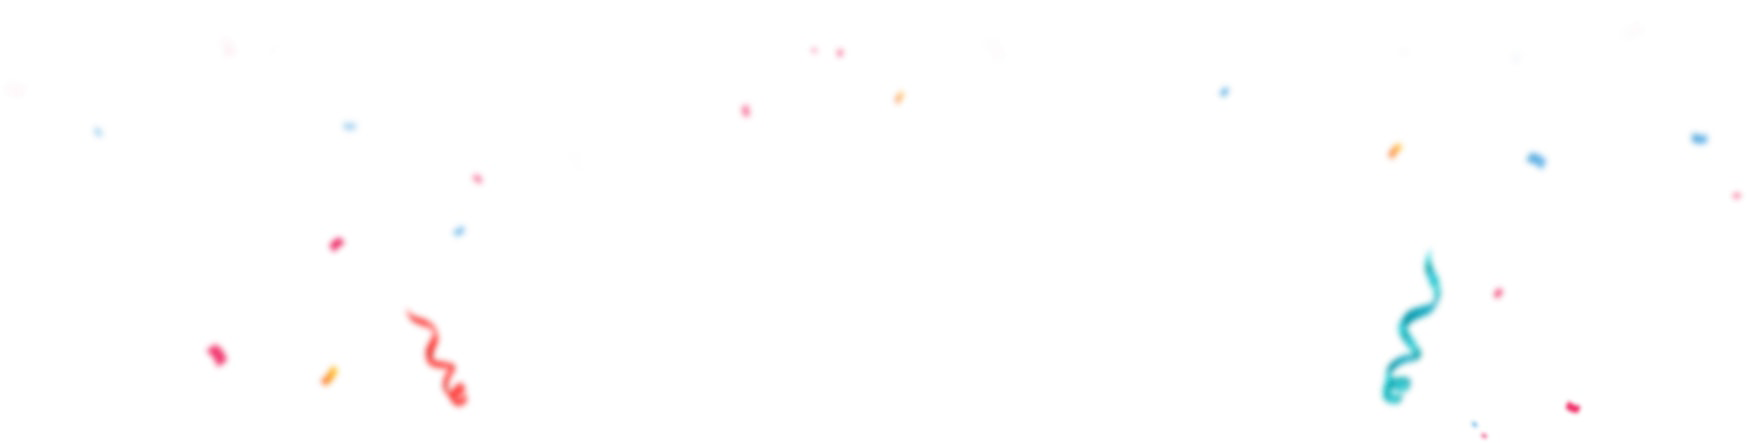
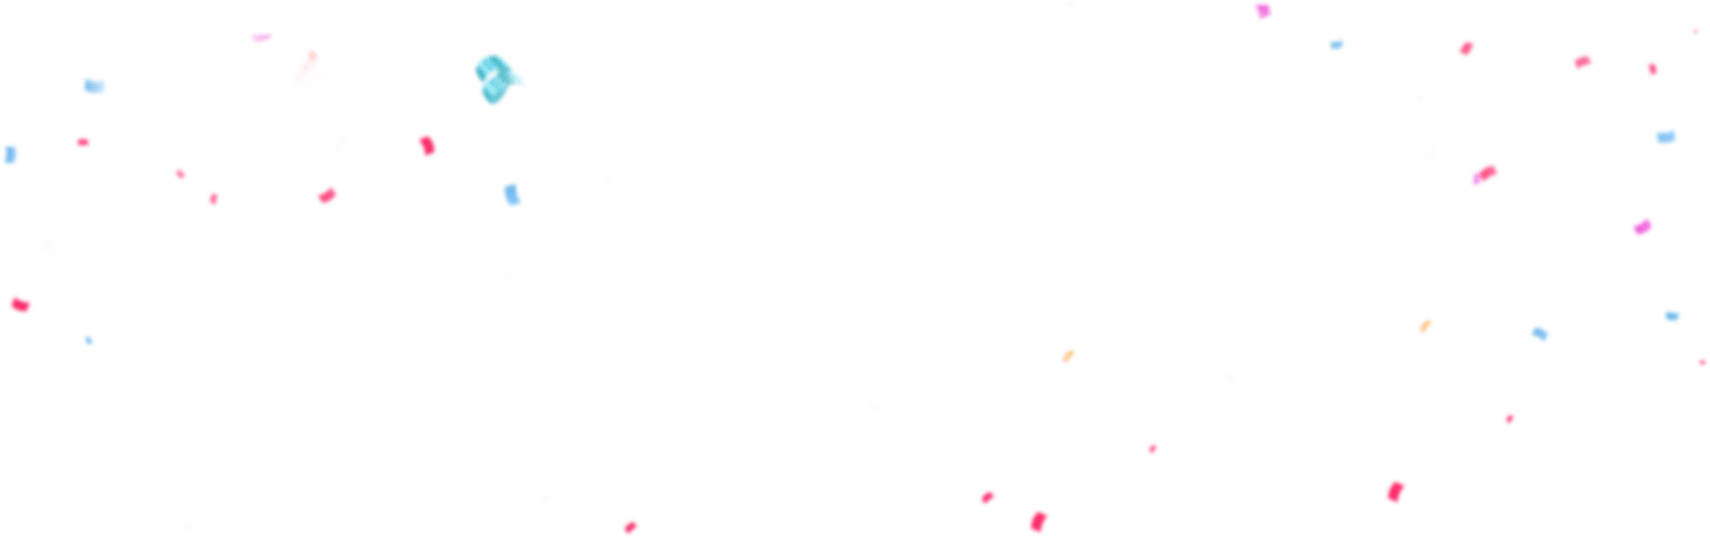
Change confeti image

diff --git a/src/scss/components/_part.scss b/src/scss/components/_part.scss
@@ -51,7 +51,7 @@
     position: absolute;
     content: url('/src/img/part-confeti.png');
     z-index: -1;
-    bottom: -546px;
+    bottom: -659px;
     left: -220px;
 
     @media (max-width: 950px) {
